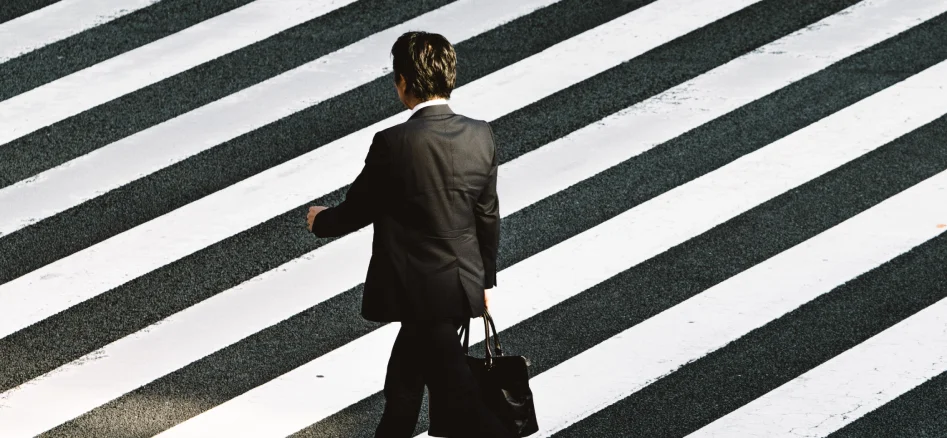
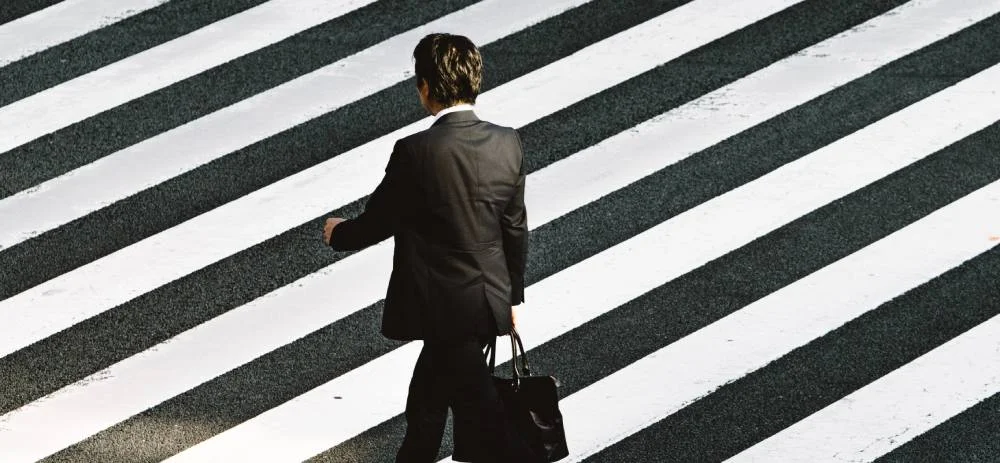
wweb

diff --git a/index.html b/index.html
@@ -49,13 +49,13 @@
 		</div>
 		<div class="carousel-inner">
 			<div class="carousel-item active">
-				<img src="./assets/images/slider/ryoji-iwata.webp" class="d-block w-100" alt="photo d'un homme d'affaire qui traverse un grand passage pietons" width="1200" height="555">
+				<img src="./assets/images/slider/ryoji-iwata.webp" class="d-block w-100" alt="photo d'un homme d'affaire qui traverse un grand passage pietons">
 			</div>
 			<div class="carousel-item">
-				<img src="./assets/images/slider/nicholas-green.webp" class="d-block w-100" alt="photo de jeunes hommes à un concert" width="1200" height="555" loading="lazy">
+				<img src="./assets/images/slider/nicholas-green.webp" class="d-block w-100" alt="photo de jeunes hommes à un concert" loading="lazy">
 			</div>
 			<div class="carousel-item">
-				<img src="./assets/images/slider/edward-cisneros.webp" class="d-block w-100" alt="photo d'un couple de nouveau mariés qui s'embrassent" width="1200" height="555" loading="lazy">
+				<img src="./assets/images/slider/edward-cisneros.webp" class="d-block w-100" alt="photo d'un couple de nouveau mariés qui s'embrassent" loading="lazy">
 			</div>
 		</div>
 		<button class="carousel-control-prev" type="button" data-bs-target="#carouselExampleIndicators" data-bs-slide="prev">
